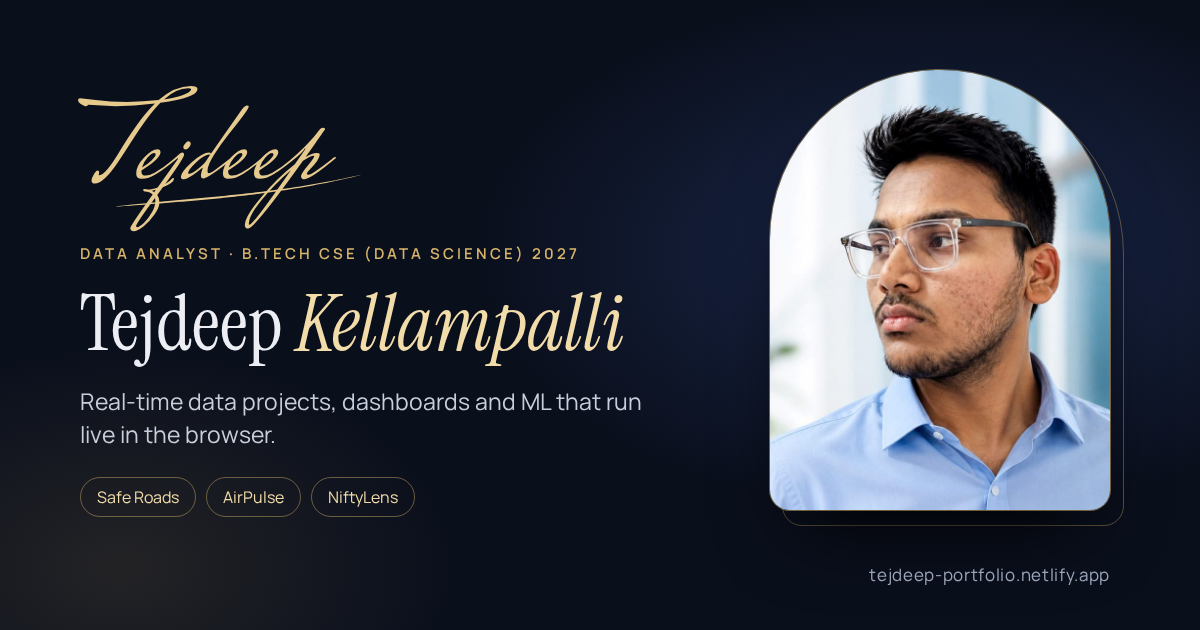
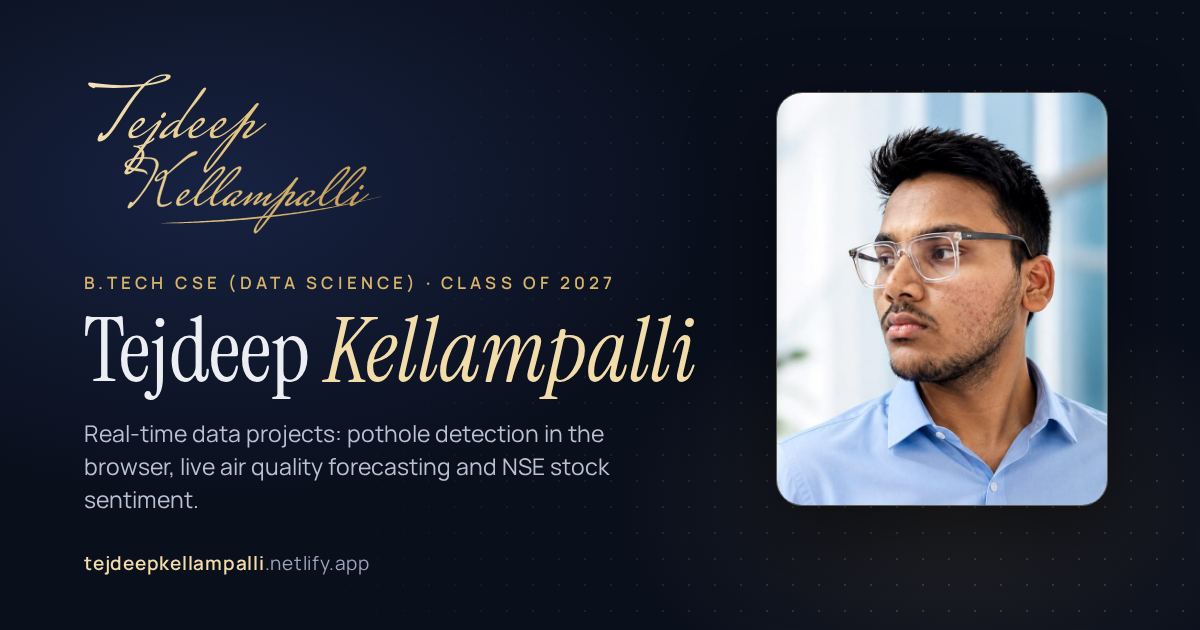
update portfolio and safe roads links, new og image

Changed region(s): [[0.0308, 0.0905, 0.9867, 0.8143], [0.0617, 0.8746, 0.3083, 0.9048], [0.7092, 0.9048, 0.925, 0.9349]]

diff --git a/test/site.test.js b/test/site.test.js
@@ -16,7 +16,8 @@ test('page has title, description, viewport and og tags', () => {
   assert.match(html, /<title>Tejdeep Kellampalli[^<]*<\/title>/)
   assert.match(html, /<meta name="viewport" content="width=device-width, initial-scale=1"/)
   assert.match(html, /<meta name="description" content="[^"]{60,}"/)
-  assert.match(html, /property="og:image" content="https:\/\/tejdeep-portfolio\.netlify\.app\/og\.png"/)
+  assert.match(html, /<link rel="canonical" href="https:\/\/tejdeepkellampalli\.netlify\.app\/"/)
+  assert.match(html, /property="og:image" content="https:\/\/tejdeepkellampalli\.netlify\.app\/og\.png"/)
 })
 
 test('every project from projects.json is on the page with its live and code links', () => {
@@ -26,6 +27,11 @@ test('every project from projects.json is on the page with its live and code lin
     assert.ok(html.includes(`href="${p.code}"`), `missing code link for ${p.name}`)
     assert.match(p.live, /^https:\/\/[a-z0-9-]+\.netlify\.app$/)
   }
+})
+
+test('the page does not call him an analyst (he is a student)', () => {
+  const text = html.replace(/<script[\s\S]*?<\/script>/g, '').replace(/Retail Sales Analytics|retail-analytics|analytics/gi, '')
+  assert.doesNotMatch(text, /analyst/i)
 })
 
 test('featured projects keep their order: Safe Roads, AirPulse, NiftyLens', () => {

diff --git a/index.html b/index.html
@@ -6,12 +6,12 @@
   <title>Tejdeep Kellampalli · Portfolio</title>
   <meta name="description" content="Tejdeep Kellampalli, B.Tech CSE (Data Science) student at R.V.R. &amp; J.C. College of Engineering, Guntur. Real-time projects: pothole detection in the browser, live air quality forecasting and NSE stock sentiment." />
   <meta name="theme-color" content="#0a0f1c" />
-  <link rel="canonical" href="https://tejdeep-portfolio.netlify.app/" />
+  <link rel="canonical" href="https://tejdeepkellampalli.netlify.app/" />
   <meta property="og:type" content="website" />
   <meta property="og:title" content="Tejdeep Kellampalli · Portfolio" />
   <meta property="og:description" content="Real-time data projects, dashboards and ML. B.Tech CSE (Data Science) student, class of 2027." />
-  <meta property="og:url" content="https://tejdeep-portfolio.netlify.app/" />
-  <meta property="og:image" content="https://tejdeep-portfolio.netlify.app/og.png" />
+  <meta property="og:url" content="https://tejdeepkellampalli.netlify.app/" />
+  <meta property="og:image" content="https://tejdeepkellampalli.netlify.app/og.png" />
   <meta property="og:image:width" content="1200" />
   <meta property="og:image:height" content="630" />
   <meta name="twitter:card" content="summary_large_image" />

diff --git a/README.md b/README.md
@@ -2,7 +2,7 @@
 
 My personal website: who I am, the projects I've built, skills, education and how to reach me.
 
-**Live:** https://tejdeep-portfolio.netlify.app
+**Live:** https://tejdeepkellampalli.netlify.app
 
 ![portfolio home](docs/home.jpg)
 
